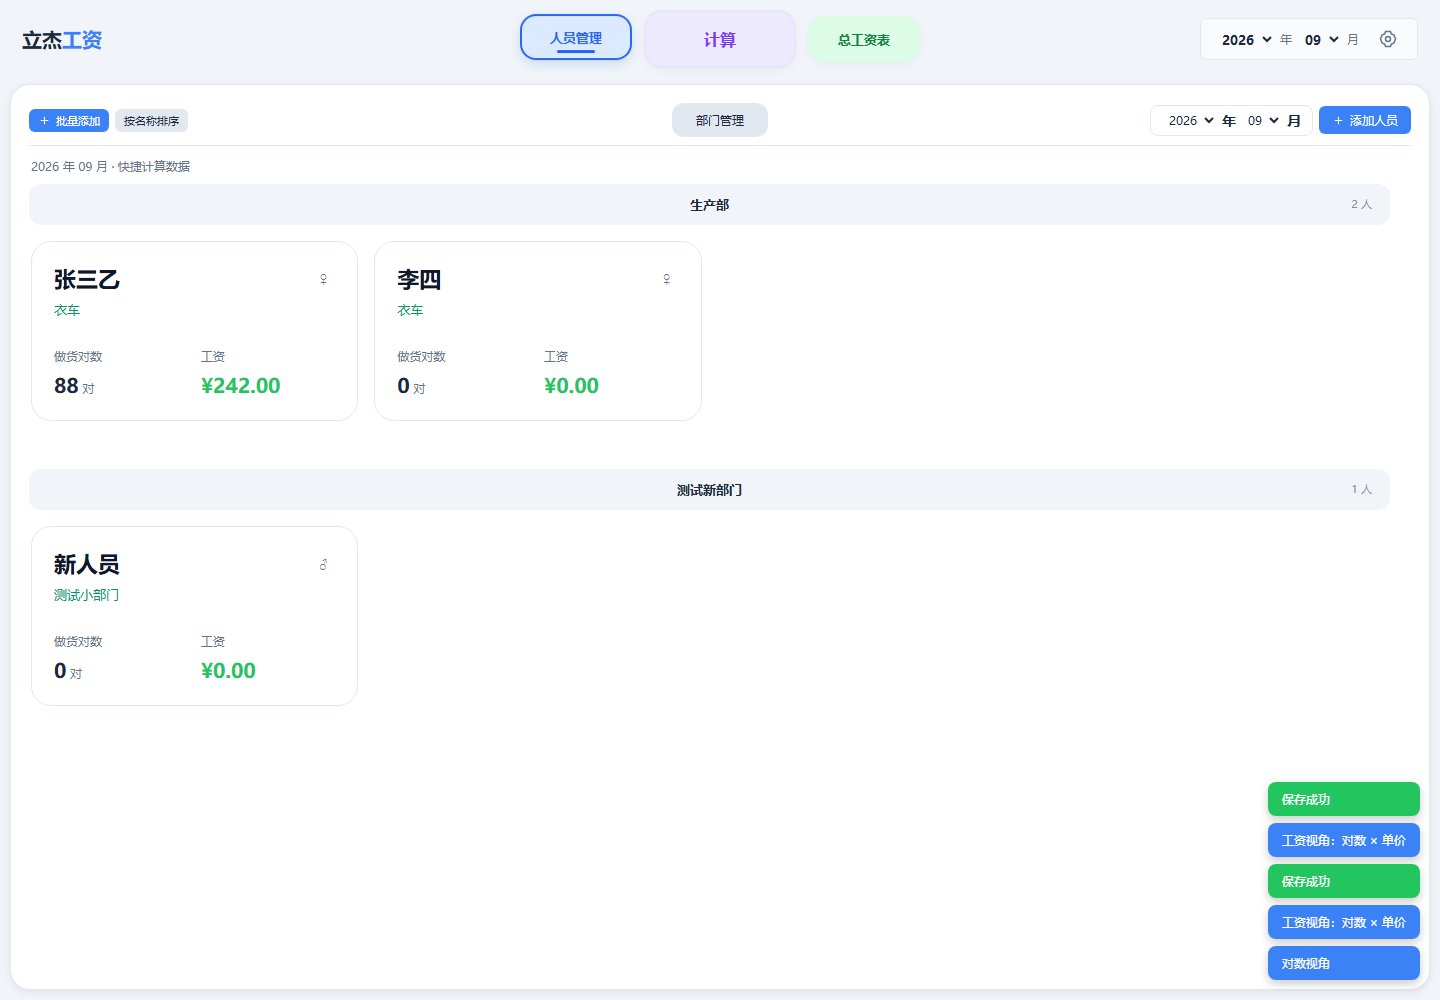
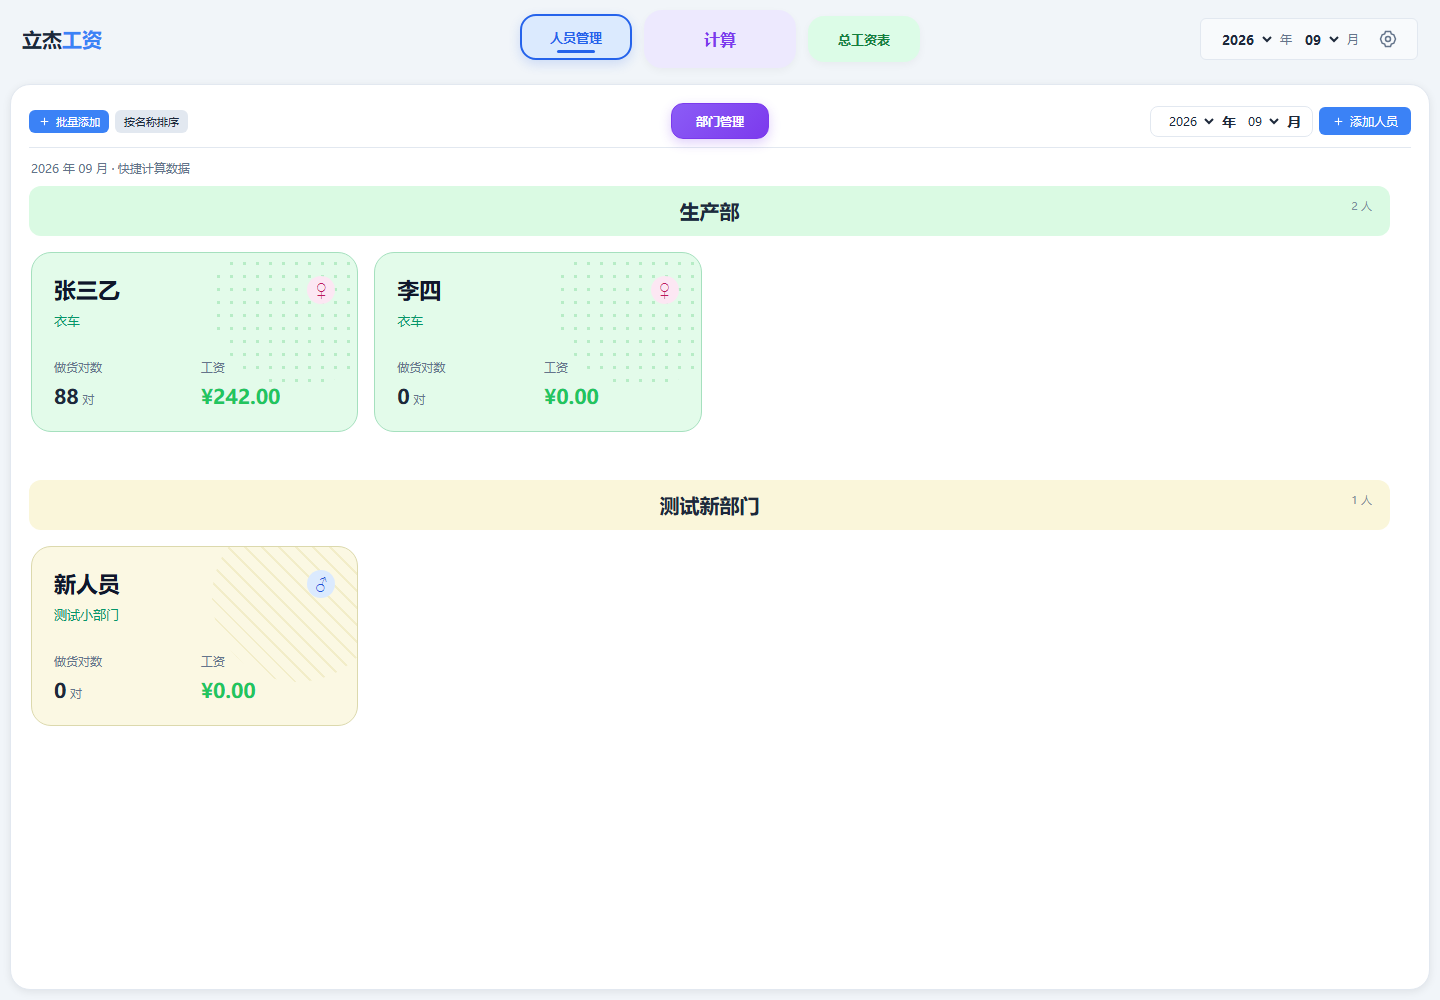
压缩极简工资页并按部门与性别装饰人员卡片

diff --git a/web/css/style.css b/web/css/style.css
@@ -2234,3 +2234,37 @@ body.minimal-mode #view-members .personnel-back { display: none; }
 #view-members .member-wage { color: var(--success); }
 .member-editor-actions { display: flex; flex-wrap: wrap; justify-content: space-between; gap: 8px; margin-top: 18px; }
 .member-editor-actions > div { display: flex; gap: 8px; }
+
+/* 极简模式人员卡片：部门固定色调，男斜纹、女圆点。图案不阻挡单击和拖拽。 */
+body.minimal-mode #view-members .member-card {
+  overflow: hidden;
+  background: color-mix(in srgb, hsl(var(--member-dept-hue) 78% 76%) 26%, var(--card-bg));
+  border-color: color-mix(in srgb, hsl(var(--member-dept-hue) 62% 54%) 38%, var(--border));
+}
+body.minimal-mode #view-members .member-card::before {
+  content: ''; position: absolute; right: -25px; top: -35px; width: 170px; height: 170px; border-radius: 50%; pointer-events: none;
+  background-image: repeating-linear-gradient(45deg, transparent 0 10px, hsl(var(--member-dept-hue) 65% 45% / .14) 10px 12px);
+}
+body.minimal-mode #view-members .member-card[data-gender="female"]::before {
+  background-image: radial-gradient(circle, hsl(var(--member-dept-hue) 65% 45% / .24) 1.8px, transparent 2px);
+  background-size: 13px 13px;
+}
+body.minimal-mode #view-members .member-card-info,
+body.minimal-mode #view-members .member-monthly-stats { position: relative; z-index: 1; }
+body.minimal-mode #view-members .member-gender-badge { display: flex; align-items: center; justify-content: center; width: 28px; height: 28px; border-radius: 50%; background: #dbeafe; color: #1d4ed8; font-size: var(--font-size-16); }
+body.minimal-mode #view-members .member-card[data-gender="female"] .member-gender-badge { background: #fce7f3; color: #be185d; }
+body.minimal-mode #view-members .member-dept-header { background: color-mix(in srgb, hsl(var(--member-dept-hue) 78% 76%) 34%, var(--card-bg)); }
+body.minimal-mode #view-members .member-dept-header .dept-large { font-size: var(--font-size-20); font-weight: 700; }
+body.minimal-mode #view-members .personnel-dept-button { border: 1px solid #7c3aed; background: linear-gradient(135deg, #8b5cf6, #7c3aed); color: #fff; font-weight: 600; box-shadow: 0 4px 12px rgba(124,58,237,.24); }
+body.minimal-mode #view-members .personnel-dept-button:hover { background: linear-gradient(135deg, #7c3aed, #6d28d9); }
+body.minimal-mode #view-members .personnel-dept-button:focus-visible { outline: 2px solid #a78bfa; outline-offset: 3px; }
+
+/* 极简工资页贴近顶部；仅压缩屏幕布局，保留打印排版。 */
+@media screen {
+  body.minimal-mode #view-salary .salary-back { display: none !important; }
+  body.minimal-mode .content:has(#view-salary.active) { padding-top: 4px; }
+  body.minimal-mode #view-salary .salary-page-card { padding: 10px 14px; border-radius: 14px; }
+  body.minimal-mode #view-salary .card-title { margin-bottom: 6px; padding-bottom: 6px; }
+  body.minimal-mode #view-salary .salary-report { gap: 8px; }
+  body.minimal-mode #view-salary .grand-total { margin-bottom: 4px; padding: 9px 14px; }
+}

diff --git a/web/js/member.js b/web/js/member.js
@@ -93,6 +93,11 @@ function compareMemberNamesByUnicode(aName, bName) {
   return aChars.length - bChars.length;
 }
 
+function memberDepartmentTone(deptId) {
+  // 由部门 ID 决定色相，换月、排序和重启后保持同部门的颜色一致。
+  return ((Number(deptId) || 0) * 137.508 % 360).toFixed(1);
+}
+
 function buildMemberDepartmentBlocks(emps, monthlyData = new Map()) {
   const groups = [];
   const groupMap = new Map();
@@ -110,7 +115,7 @@ function buildMemberDepartmentBlocks(emps, monthlyData = new Map()) {
   });
 
   return groups.map(group => `
-    <div class="dept-block member-dept-block" data-dept-id="${group.dept_id}">
+    <div class="dept-block member-dept-block" data-dept-id="${group.dept_id}" style="--member-dept-hue:${memberDepartmentTone(group.dept_id)}">
       <div class="dept-block-header member-dept-header">
         <span><span class="dept-large">${escHtml(group.dept_name)}</span></span>
         <span class="dept-totals">${group.employees.length} 人</span>
@@ -160,6 +165,7 @@ async function sortMembersByName(direction) {
 function buildMemberCard(emp, monthly = {}) {
   return `
     <div class="member-card" data-emp-id="${emp.id}" data-dept-id="${emp.dept_id}"
+      data-gender="${emp.gender === '女' ? 'female' : 'male'}" style="--member-dept-hue:${memberDepartmentTone(emp.dept_id)}"
       role="button" tabindex="0" aria-label="编辑${escHtml(emp.name)}"
       onclick="safeShowEditMemberModal(${emp.id}, event)"
       onkeydown="onMemberCardKeyDown(${emp.id}, event)"

diff --git a/web/index.html b/web/index.html
@@ -665,8 +665,8 @@
 
     <!-- ===== 总工资表 ===== -->
     <div class="view" id="view-salary">
-      <div style="display:inline-block;text-align:center;padding:10px 0 2px 0;"><button class="btn btn-back-home" onclick="navigateTo('overview')">🏠 返回主页</button></div>
-      <div class="card">
+      <div class="salary-back" style="display:inline-block;text-align:center;padding:10px 0 2px 0;"><button class="btn btn-back-home" onclick="navigateTo('overview')">🏠 返回主页</button></div>
+      <div class="card salary-page-card">
         <div class="card-title flex justify-between items-center">
           工资汇总
           <div class="month-picker">

diff --git a/README.md b/README.md
@@ -105,6 +105,8 @@
 
 在“系统设置 → 外观”勾选“极简模式”后，左侧导航栏完全隐藏，快捷计算成为启动主页并使用完整主内容区域。顶部居中显示“人员管理”“计算”“总工资表”三个圆角卡片，分别采用浅蓝、浅紫和浅绿色背景，中间的计算卡片稍大；选中卡片显示对应颜色的边框和底部标记。“计算”直接返回快捷计算页，右上角齿轮打开系统设置。极简模式固定使用快捷计算工资来源，人员卡片和详情也保持一致；关闭后恢复常规导航和原来的工资来源选择。设置保存到数据库，重启仍然生效。
 
+极简模式的总工资页隐藏“返回快捷计算”区域并压缩顶部间距。人员卡片按部门使用固定背景色，男、女分别采用斜纹和圆点背景图案，保留性别标识；部门分隔标题加大，部门管理按钮采用鲜艳紫色渐变。卡片配色兼容浅色和深色主题，图案不阻挡点击或拖拽。
+
 ![极简模式人员月度卡片](docs/images/screenshot-minimal-members.png)
 
 ![外观设置](docs/images/screenshot-settings-appearance.png)
